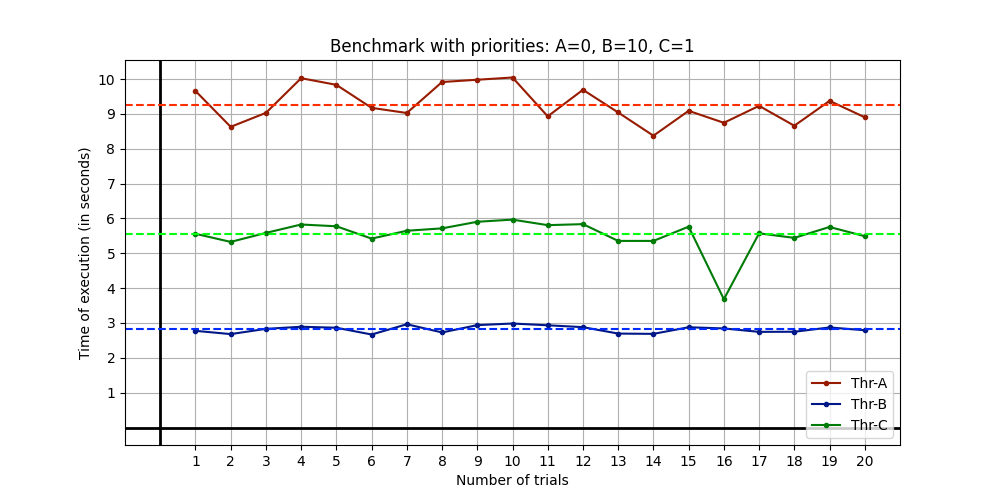
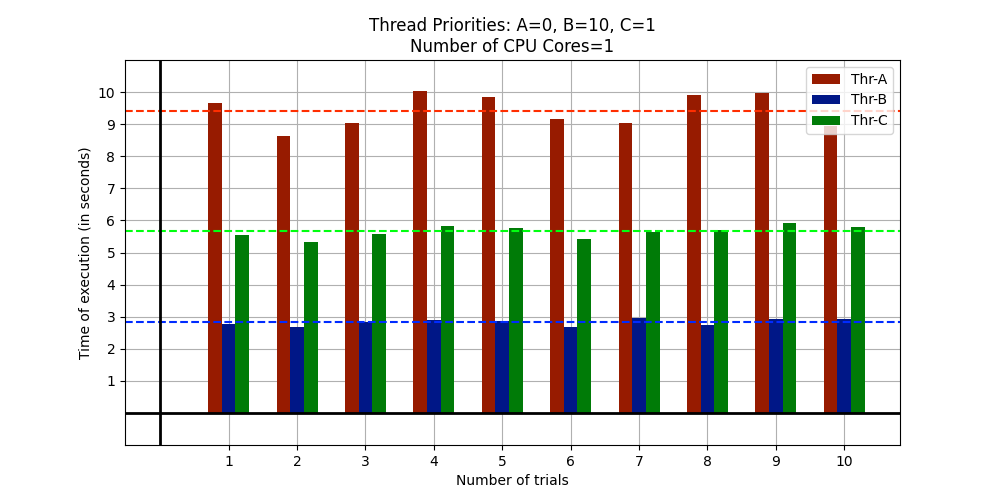
Updates

diff --git a/Assignment-2/1/1.1/Benchmarks/plotter.py b/Assignment-2/1/1.1/Benchmarks/plotter.py
@@ -1,4 +1,5 @@
 import matplotlib.pyplot as plt
+import numpy as np
 import csv
 
 
@@ -22,14 +23,30 @@ def plot() -> None:
     Thr_B = [benchmarks[i]["B"] for i in range(len(benchmarks))]
     Thr_C = [benchmarks[i]["C"] for i in range(len(benchmarks))]
 
+    A_priorities = [0, 0, 0, 0, 0, 0, 0, 0, 0, 0]
+    B_priorities = [1, 10, 1 ,1, 1, 1, 1, 1, 1, 1]
+    C_priorities = [1, 1, 20, 1, 1, 1, 1, 1, 1, 1]
+
     plt.figure(figsize=(10, 5))
 
-    plt.axhline(y=0, color="black", linewidth=2)
-    plt.axvline(x=0, color="black", linewidth=2)
+    plt.axhline(y=0, color="black", linewidth=2, zorder=3)
+    plt.axvline(x=0, color="black", linewidth=2, zorder=3)
 
-    plt.plot(range(1, len(benchmarks)+1), Thr_A, marker=".", label="Thr-A", color="#971B00")
-    plt.plot(range(1, len(benchmarks)+1), Thr_B, marker=".", label="Thr-B", color="#001787")
-    plt.plot(range(1, len(benchmarks)+1), Thr_C, marker=".", label="Thr-C", color="#007B07")
+    plt.bar(np.arange(1-0.2, len(benchmarks)+1-0.2, 1), Thr_A, width=0.2, label="Thr-A", color="#971B00", zorder=2)
+    plt.bar(np.arange(1, len(benchmarks)+1, 1), Thr_B, width=0.2, label="Thr-B", color="#001787", zorder=2)
+    plt.bar(np.arange(1+0.2, len(benchmarks)+1+0.2, 1), Thr_C, width=0.2, label="Thr-C", color="#007B07", zorder=2)
+
+    # # write A priorities on top of bars
+    # for i in range(len(A_priorities)):
+    #     plt.text(i+1-0.2, 0.25, A_priorities[i], ha="center", va="bottom", color="white", size=9, zorder=4)
+
+    # # write B priorities on top of bars
+    # for i in range(len(B_priorities)):
+    #     plt.text(i+1, 0.25, B_priorities[i], ha="center", va="bottom", color="white", size=9, zorder=4)
+
+    # # write C priorities on top of bars
+    # for i in range(len(C_priorities)):
+    #     plt.text(i+1+0.2, 0.25, C_priorities[i], ha="center", va="bottom", color="white", size=9, zorder=4)
 
     plt.axhline(y=sum(Thr_A)/len(Thr_A), linestyle="--", color="#FF2E00")
     plt.axhline(y=sum(Thr_B)/len(Thr_B), linestyle="--", color="#002BFF")
@@ -39,9 +56,10 @@ def plot() -> None:
     plt.xticks(range(1, len(benchmarks)+1))
     plt.ylabel("Time of execution (in seconds)")
     plt.yticks(range(1, 11))
+    plt.ylim(-1, 11)
 
-    plt.title("Benchmark with priorities: A=0, B=1, C=1")
-    plt.grid(True)
+    plt.title("Thread Priorities: A=0, B=1, C=1\nNumber of CPU Cores=1")
+    plt.grid(True, zorder=0)
     plt.legend()
     plt.show()
 
